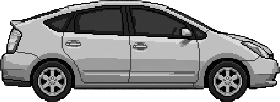
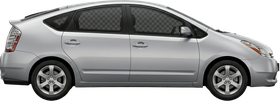
feat: urdu name hover swap, realistic prius sprite, analytics
- Hero name crossfades to Nastaliq urdu on hover and back
- Noto Nastaliq Urdu loaded lazily, no preload
- Prius easter egg now discoverable: clickable phrase on about page
  and a console hint; sprite replaced with realistic render
- Add Vercel Analytics

diff --git a/components/name-reveal.tsx b/components/name-reveal.tsx
@@ -1,11 +1,15 @@
 "use client";
 
+import { useState } from "react";
 import { motion, useReducedMotion } from "motion/react";
 import { EASE } from "@/lib/motion";
 
 const STAGGER = 0.028;
 
-/** Per-letter mask reveal for the hero name. */
+/**
+ * Per-letter mask reveal for the hero name.
+ * Hovering swaps it to Urdu (and back).
+ */
 export function NameReveal({
   text,
   className,
@@ -16,6 +20,7 @@ export function NameReveal({
   delay?: number;
 }) {
   const reduced = useReducedMotion();
+  const [hovered, setHovered] = useState(false);
 
   if (reduced) {
     return (
@@ -29,32 +34,61 @@ export function NameReveal({
   const letters = text.split("");
 
   return (
-    <h1 className={`overflow-hidden ${className ?? ""}`} aria-label={`${text}.`}>
-      {letters.map((ch, i) => (
+    <h1
+      className={`relative cursor-default ${className ?? ""}`}
+      aria-label={`${text}.`}
+      onMouseEnter={() => setHovered(true)}
+      onMouseLeave={() => setHovered(false)}
+    >
+      {/* english layer (carries the entrance mask) */}
+      <span
+        aria-hidden
+        className="block overflow-hidden transition-opacity duration-500 ease-out-expo"
+        style={{ opacity: hovered ? 0 : 1 }}
+      >
+        {letters.map((ch, i) => (
+          <motion.span
+            key={i}
+            className="inline-block"
+            initial={{ y: "115%" }}
+            animate={{ y: 0 }}
+            transition={{
+              duration: 0.8,
+              ease: EASE,
+              delay: delay + i * STAGGER,
+            }}
+          >
+            {ch === " " ? " " : ch}
+          </motion.span>
+        ))}
         <motion.span
-          key={i}
-          aria-hidden
-          className="inline-block"
+          className="inline-block text-faint"
           initial={{ y: "115%" }}
           animate={{ y: 0 }}
-          transition={{ duration: 0.8, ease: EASE, delay: delay + i * STAGGER }}
+          transition={{
+            duration: 0.8,
+            ease: EASE,
+            delay: delay + letters.length * STAGGER,
+          }}
         >
-          {ch === " " ? " " : ch}
+          .
         </motion.span>
-      ))}
-      <motion.span
+      </span>
+
+      {/* urdu layer (unclipped so nastaliq descenders can breathe) */}
+      <span
         aria-hidden
-        className="inline-block text-faint"
-        initial={{ y: "115%" }}
-        animate={{ y: 0 }}
-        transition={{
-          duration: 0.8,
-          ease: EASE,
-          delay: delay + letters.length * STAGGER,
+        dir="rtl"
+        lang="ur"
+        className="font-urdu absolute inset-0 flex items-center justify-end gap-[0.3em] text-[0.94em] leading-none transition-[opacity,transform] duration-500 ease-out-expo"
+        style={{
+          opacity: hovered ? 1 : 0,
+          transform: hovered ? "translateY(-0.15em)" : "translateY(0.18em)",
         }}
       >
-        .
-      </motion.span>
+        <span>عمار</span>
+        <span>حسن</span>
+      </span>
     </h1>
   );
 }

diff --git a/app/layout.tsx b/app/layout.tsx
@@ -1,5 +1,11 @@
 import type { Metadata } from "next";
-import { Geist, Geist_Mono, Newsreader } from "next/font/google";
+import { Analytics } from "@vercel/analytics/next";
+import {
+  Geist,
+  Geist_Mono,
+  Newsreader,
+  Noto_Nastaliq_Urdu,
+} from "next/font/google";
 import { ThemeProvider } from "next-themes";
 import { Nav } from "@/components/nav";
 import { Footer } from "@/components/footer";
@@ -23,6 +29,14 @@ const newsreader = Newsreader({
   subsets: ["latin"],
   style: ["italic"],
   weight: ["400", "500"],
+});
+
+const nastaliq = Noto_Nastaliq_Urdu({
+  variable: "--font-nastaliq",
+  subsets: ["arabic"],
+  weight: ["400", "600"],
+  // Only ~1 in 4 visits renders Urdu; the browser fetches this lazily.
+  preload: false,
 });
 
 const SITE_URL =
@@ -62,7 +76,7 @@ export default function RootLayout({
   return (
     <html lang="en" suppressHydrationWarning>
       <body
-        className={`${geistSans.variable} ${geistMono.variable} ${newsreader.variable} antialiased`}
+        className={`${geistSans.variable} ${geistMono.variable} ${newsreader.variable} ${nastaliq.variable} antialiased`}
       >
         <ThemeProvider
           attribute="class"
@@ -80,6 +94,7 @@ export default function RootLayout({
           <CommandMenu />
           <PageEffects />
         </ThemeProvider>
+        <Analytics />
       </body>
     </html>
   );

diff --git a/components/prius-trigger.tsx b/components/prius-trigger.tsx
@@ -1,0 +1,15 @@
+"use client";
+
+/** The about page's "Prius in the driveway" — click it and it drives by. */
+export function PriusTrigger() {
+  return (
+    <button
+      type="button"
+      aria-label="start the prius"
+      onClick={() => window.dispatchEvent(new Event("drive-prius"))}
+      className="cursor-pointer border-b border-dashed border-faint transition-colors duration-300 hover:border-fg"
+    >
+      Prius in the driveway
+    </button>
+  );
+}

diff --git a/app/about/page.tsx b/app/about/page.tsx
@@ -1,4 +1,5 @@
 import type { Metadata } from "next";
+import { PriusTrigger } from "@/components/prius-trigger";
 import { Reveal } from "@/components/reveal";
 import { education, experience, site, toolbox } from "@/data/site";
 
@@ -64,10 +65,10 @@ export default function AboutPage() {
               off hours
             </span>
             <p className="max-w-[58ch] text-[15px] leading-[1.8] text-muted text-pretty">
-              Gaming, sim racing, and cars — despite the Prius in the
-              driveway. Karting with friends is where the lap-time tool came
-              from. Away from screens, it&apos;s the mountains and air you
-              can actually breathe.
+              Gaming, sim racing, and cars — despite the <PriusTrigger />.
+              Karting with friends is where the lap-time tool came from. Away
+              from screens, it&apos;s the mountains and air you can actually
+              breathe.
             </p>
           </div>
         </Reveal>

diff --git a/components/pixel-prius.tsx b/components/pixel-prius.tsx
@@ -28,13 +28,7 @@ export function PixelPrius({
       onAnimationComplete={onDone}
     >
       {/* eslint-disable-next-line @next/next/no-img-element -- tiny easter-egg sprite, next/image overhead not worth it */}
-      <img
-        src="/prius.png"
-        alt=""
-        width={110}
-        height={40}
-        className="[image-rendering:pixelated]"
-      />
+      <img src="/prius.png" alt="" width={110} height={40} />
       {fast && (
         <span className="absolute -left-10 top-3 font-mono text-[11px] tracking-[0.3em] text-faint">
           ✺✺

diff --git a/components/command-menu.tsx b/components/command-menu.tsx
@@ -33,11 +33,16 @@ export function CommandMenu() {
       setSearch("");
       setOpen(true);
     }
+    function onDrivePrius() {
+      setDriving("cruise");
+    }
     window.addEventListener("keydown", onKey);
     window.addEventListener("open-cmdk", onOpenEvent);
+    window.addEventListener("drive-prius", onDrivePrius);
     return () => {
       window.removeEventListener("keydown", onKey);
       window.removeEventListener("open-cmdk", onOpenEvent);
+      window.removeEventListener("drive-prius", onDrivePrius);
     };
   }, []);
 

diff --git a/components/page-effects.tsx b/components/page-effects.tsx
@@ -5,8 +5,9 @@ import { useEffect } from "react";
 export function PageEffects() {
   useEffect(() => {
     console.log(
-      "%chello, fellow dev — view source all you like.\n%c→ github.com/vroslmend",
+      "%chello, fellow dev — view source all you like.\n%c→ github.com/vroslmend\n%cpsst: press ctrl k and type 'prius'.",
       "font-family:monospace;color:#a8a49c",
+      "font-family:monospace;color:#5c5953",
       "font-family:monospace;color:#5c5953"
     );
 

diff --git a/app/globals.css b/app/globals.css
@@ -30,6 +30,7 @@
   --font-sans: var(--font-geist-sans);
   --font-mono: var(--font-geist-mono);
   --font-serif: var(--font-newsreader);
+  --font-urdu: var(--font-nastaliq);
   --ease-out-expo: cubic-bezier(0.16, 1, 0.3, 1);
 }
 